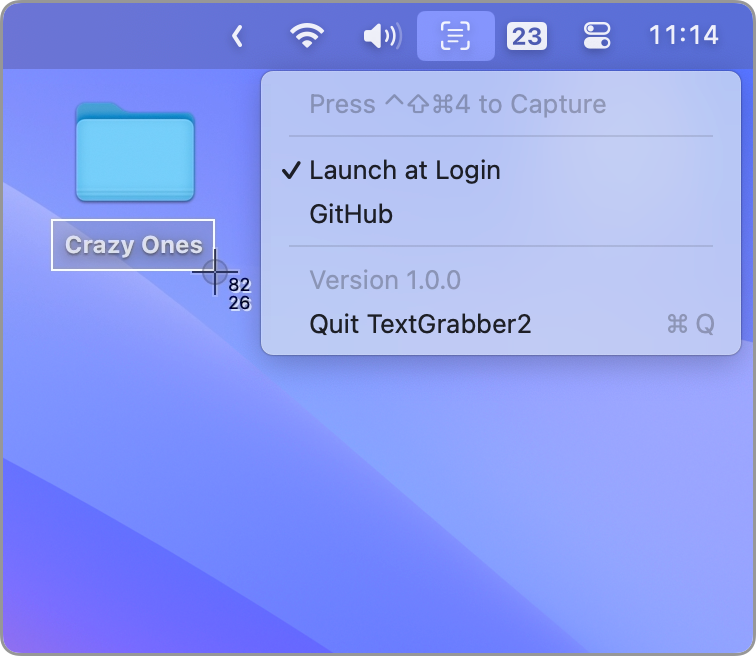
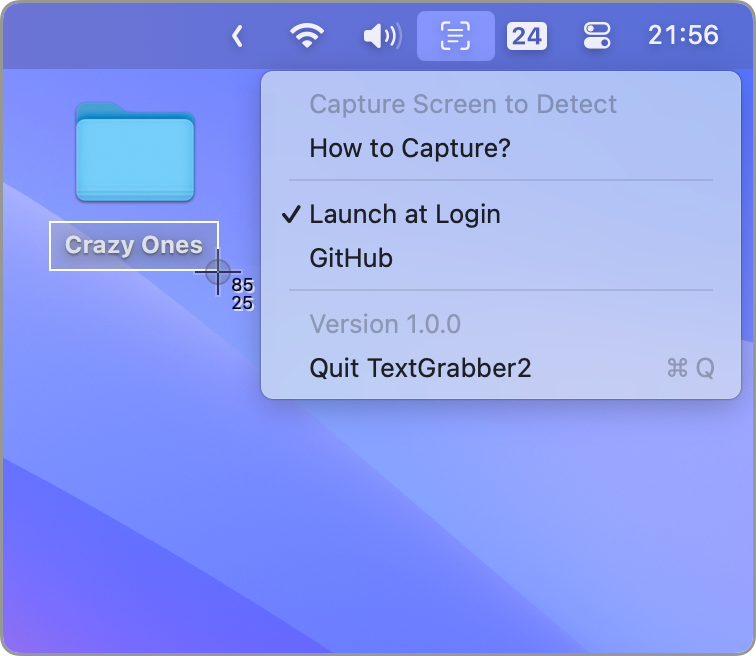
Avoid confusion about custom key-bindings

diff --git a/TextGrabber2/Sources/App.swift b/TextGrabber2/Sources/App.swift
@@ -23,6 +23,7 @@ final class App: NSObject, NSApplicationDelegate {
     menu.delegate = self
 
     menu.addItem(hintItem)
+    menu.addItem(howToItem)
     menu.addItem(.separator())
     menu.addItem(copyAllItem)
     menu.addItem(clipboardItem)
@@ -56,6 +57,14 @@ final class App: NSObject, NSApplicationDelegate {
   }()
 
   private let hintItem = NSMenuItem()
+  private let howToItem: NSMenuItem = {
+    let item = NSMenuItem(title: Localized.menuTitleHowTo)
+    item.addAction {
+      NSWorkspace.shared.safelyOpenURL(string: "\(Links.github)/wiki")
+    }
+
+    return item
+  }()
 
   private lazy var copyAllItem: NSMenuItem = {
     let item = NSMenuItem(title: Localized.menuTitleCopyAll)
@@ -148,6 +157,7 @@ private extension App {
 
   func clearMenuItems() {
     hintItem.title = Localized.menuTitleHintCapture
+    howToItem.isHidden = false
     copyAllItem.isHidden = true
     clipboardItem.isHidden = true
     statusItem.menu?.removeItems { $0 is ResultItem }
@@ -166,21 +176,19 @@ private extension App {
     }
 
     hintItem.title = Localized.menuTitleHintRecognizing
+    howToItem.isHidden = true
 
     Task {
       let resultData = await Recognizer.detect(image: image)
       currentResult = resultData
+
+      hintItem.title = resultData.candidates.isEmpty ? Localized.menuTitleHintCapture : Localized.menuTitleHintCopy
+      howToItem.isHidden = !resultData.candidates.isEmpty
       copyAllItem.isHidden = resultData.candidates.count < 2
       clipboardItem.isHidden = false
 
-      if resultData.candidates.isEmpty {
-        hintItem.title = Localized.menuTitleHintCapture
-      } else {
-        hintItem.title = Localized.menuTitleHintCopy
-      }
-
       let separator = NSMenuItem.separator()
-      menu.insertItem(separator, at: menu.index(of: hintItem) + 1)
+      menu.insertItem(separator, at: menu.index(of: howToItem) + 1)
       menu.removeItems { $0 is ResultItem }
 
       for text in resultData.candidates.reversed() {

diff --git a/TextGrabber2/Sources/Resources.swift b/TextGrabber2/Sources/Resources.swift
@@ -14,9 +14,10 @@ import Foundation
  https://developer.apple.com/documentation/xcode/localizing-and-varying-text-with-a-string-catalog
  */
 enum Localized {
-  static let menuTitleHintCapture = String(localized: "Press ⌃⇧⌘4 to Capture", comment: "[Menu] Hint for capturing text")
+  static let menuTitleHintCapture = String(localized: "Capture Screen to Detect", comment: "[Menu] Hint for capturing the screen")
   static let menuTitleHintCopy = String(localized: "Click to Copy", comment: "[Menu] Hint for copying text")
   static let menuTitleHintRecognizing = String(localized: "Recognizing...", comment: "[Menu] The recognition is ongoing")
+  static let menuTitleHowTo = String(localized: "How to Capture?", comment: "[Menu] How to use the app")
   static let menuTitleCopyAll = String(localized: "Copy All", comment: "[Menu] Copy all text at once")
   static let menuTitleJoinWithLineBreaks = String(localized: "Join with Line Breaks", comment: "[Menu] Join all text with line breaks and copy them")
   static let menuTitleJoinWithSpaces = String(localized: "Join with Spaces", comment: "[Menu] Join all text with spaces and copy them")

diff --git a/README.md b/README.md
@@ -14,7 +14,7 @@ It also functions effectively for any form of image copying.
 
 > Note that keyboard shortcuts can be remapped (and it's recommended since pressing 4 keys is a bit clunky). Please check out Apple's [documentation](https://support.apple.com/guide/mac-help/mchlp2271/mac) for details.
 > 
-> Also, once the keyboard shortcut is remapped, TextGrabber2 cannot tell you the new key-bindings due to system limitations. You need to check out the system settings.
+> Learn more [here](https://github.com/TextGrabber2-app/TextGrabber2/wiki).
 
 ## Installation
 
